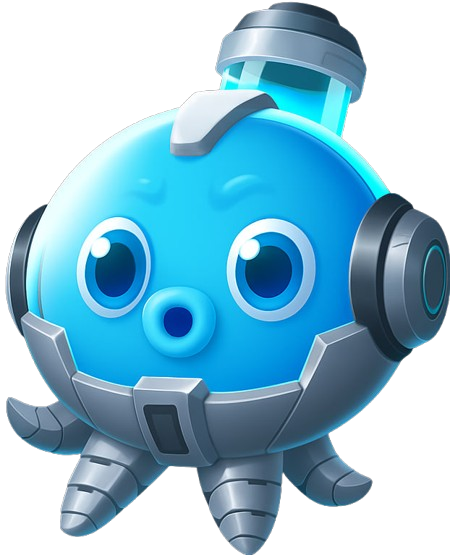
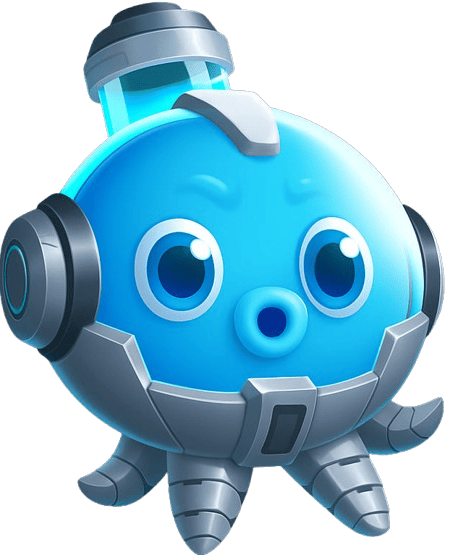
'ui'

diff --git a/src/components/Sprites/Pacman.tsx b/src/components/Sprites/Pacman.tsx
@@ -2,8 +2,9 @@
 import { useEffect, useState, useCallback, useRef } from 'react';
 import { Assets, Texture } from 'pixi.js';
 import { useTick } from '@pixi/react';
-import bg from '../../assets/pacmanRight.png';
-import { isWallAt, TILE_SIZE, MAP_COLS, MAP_ROWS, cellKey } from '../../game/mapData';
+import pacmanRight from '../../assets/pacmanRight.png';
+import pacmanLeft from '../../assets/pacmanLeft.png';
+import { isWallAt, TILE_SIZE, MAP_COLS, MAP_ROWS } from '../../game/mapData';
 import { useGameStore } from '../../game/gameStore';
 import {useDialogsStore} from "../../store/dialogs.ts";
 
@@ -15,15 +16,17 @@ const keyMap: Record<string, 'up' | 'down' | 'left' | 'right' | 'space' | undefi
     KeyD: 'right', ArrowRight: 'right',
 };
 
-const SPEED = 2;
+const SPEED = 2.8;
 const SPRITE_SIZE = TILE_SIZE;
-const HITBOX = 30;
+const HITBOX = 44;
 const HITBOX_PAD = (SPRITE_SIZE - HITBOX) / 2;
 
 export const Pacman = () => {
-    const [texture, setTexture] = useState(Texture.EMPTY);
+    const [textureRight, setTextureRight] = useState(Texture.EMPTY);
+    const [textureLeft, setTextureLeft] = useState(Texture.EMPTY);
     const [isMoving, setIsMoving] = useState<null | 'up' | 'down' | 'left' | 'right'>(null);
-    const [position, setPosition] = useState({ x: TILE_SIZE * 20, y: TILE_SIZE * 8 });
+    const [facing, setFacing] = useState<'left' | 'right'>('right');
+    const [position, setPosition] = useState({ x: TILE_SIZE * 12, y: TILE_SIZE * 8 });
     const { setDialogLoseGame } = useDialogsStore();
 
     const consume = useGameStore((s) => s.consume);
@@ -38,6 +41,8 @@ export const Pacman = () => {
         const dir = keyMap[e.code];
         if (!dir || dir === 'space' || gameOver) return;
         setIsMoving(dir);
+        if (dir === 'left') setFacing('left');
+        else if (dir === 'right') setFacing('right');
     }, [gameOver]);
 
     const keyUpHandler = useCallback((e: KeyboardEvent) => {
@@ -106,6 +111,7 @@ export const Pacman = () => {
     useTick(animate);
 
     const lastCellRef = useRef<string>('');
+
     useEffect(() => {
         if (gameOver) return;
 
@@ -134,8 +140,14 @@ export const Pacman = () => {
     }, [shouldEndGame, endGame]);
 
     useEffect(() => {
-        if (texture === Texture.EMPTY) Assets.load(bg).then(setTexture);
-    }, [texture]);
+        let alive = true;
+        Promise.all([Assets.load(pacmanRight), Assets.load(pacmanLeft)]).then(([r, l]) => {
+            if (!alive) return;
+            setTextureRight(r);
+            setTextureLeft(l);
+        });
+        return () => { alive = false; };
+    }, []);
 
     useEffect(() => {
         window.addEventListener('keydown', keyDownHandler);
@@ -146,5 +158,8 @@ export const Pacman = () => {
         };
     }, [keyDownHandler, keyUpHandler]);
 
-    return <pixiSprite texture={texture} x={position.x} y={position.y} width={SPRITE_SIZE} height={SPRITE_SIZE} />;
+    const currentTexture = facing === 'left' ? textureLeft : textureRight;
+    if (currentTexture === Texture.EMPTY) return null;
+
+    return <pixiSprite texture={currentTexture} x={position.x} y={position.y} width={SPRITE_SIZE} height={SPRITE_SIZE} />;
 };

diff --git a/src/game/mapData.ts b/src/game/mapData.ts
@@ -1,23 +1,22 @@
-export const MAP_COLS = 39;
-export const MAP_ROWS = 15;
-export const TILE_SIZE = 46;
+export const MAP_COLS = 27;
+export const MAP_ROWS = 14;
+export const TILE_SIZE = 60;
 
 export const RAW_LAYOUT: string[] = [
-    '#######################################',
-    '#.........o....................o......#',
-    '#..######.#.#####....####....######...#',
-    '#..##.......##....##.#....##.##.##.##.#',
-    '#..##.#####.##.# .##.#.#####. #.##.##.#',
-    '#..##. ### .##.##.# .#.##.##.##. #.##.#',
-    '#..##....##.##.##.##.#.##.##.##....##.#',
-    '#..######...######...#### ...######...#',
-    '#..o................ .............o...#',
-    '#..######...######...#####...######...#',
-    '#..##.......##....##.#....##.##....##.#',
-    '#..##..####.##. #.# .#.##.##.##. #.##.#',
-    '#..##..####.##.##.##.#.##.##.##.##.##.#',
-    '#.o.............#..................o..#',
-    '#######################################',
+    '###########################',
+    '#..o.................o....#',
+    '#..#.####....###...####...#',
+    '#....#....##.#...#.#.##.#.#',
+    '#.##.#.# .##.#.###...##.#.#',
+    '#.# .#.##.# .#.#.#.#. #.#.#',
+    '#.##...##.##.#.#.#.#....#.#',
+    '#....#####...### ..#####..#',
+    '#........... ..........o..#',
+    '#.#######....###...#####..#',
+    '#....#....##.#...#.#....#.#',
+    '#.##.#.##.##.#.#.#.#.##.#.#',
+    '#o.....#................o.#',
+    '###########################',
 ];
 
 export const isWallAt = (col: number, row: number) =>

diff --git a/src/game/gameStore.ts b/src/game/gameStore.ts
@@ -5,7 +5,7 @@ type Eaten = 'pellet' | null;
 type Dir = 'up' | 'down' | 'left' | 'right';
 export type Shark = { id: number; x: number; y: number; dir: Dir };
 
-const SHARK_SPEED = 1.5; // пикс/тик
+const SHARK_SPEED = 2.8; // пикс/тик
 
 function opposite(d: Dir): Dir {
     if (d === 'up') return 'down';
@@ -119,8 +119,8 @@ export const useGameStore = create<GameState>((set, get) => ({
                 const pickFrom = filtered.length ? filtered : options;
 
                 if (pickFrom.length) {
-                    // если текущий курс валиден — с 70% вероятностью держимся его, иначе выбираем случайный
-                    const keepCurrent = pickFrom.some((o) => o.dir === dir) && Math.random() < 0.7;
+                    // если текущий курс валиден — с 60% вероятностью держимся его, иначе выбираем случайный
+                    const keepCurrent = pickFrom.some((o) => o.dir === dir) && Math.random() < 0.6;
                     if (!keepCurrent) {
                         const choice = pickFrom[Math.floor(Math.random() * pickFrom.length)];
                         dir = choice.dir;

diff --git a/src/components/Sprites/Map.tsx b/src/components/Sprites/Map.tsx
@@ -78,6 +78,7 @@ export const Map = ({
     const pelletSize = TILE_SIZE * 0.6;           // 60% клетки
     const pelletOffset = (TILE_SIZE - pelletSize) / 2;
 
+
     return (
         <>
             {/* стены */}
@@ -104,7 +105,7 @@ export const Map = ({
                         x={px}
                         y={py}
                         size={pelletSize}
-                        speed={0.25}
+                        speed={0.35}
                         tint={pelletColor}
                     />
                 );

diff --git a/src/App.tsx b/src/App.tsx
@@ -6,7 +6,7 @@ import { DialogLoseGame } from "./components/Dialogs/DialogLoseGame.tsx";
 export const App = () => {
     const score = useGameStore((s) => s.score);
     return (
-        <VStack h={'100vh'} justifyContent={'center'}>
+        <VStack h={'100vh'} bg={'linear-gradient(135deg, rgb(245, 242, 237) 0%, rgb(232, 234, 246) 30%, rgb(227, 242, 253) 60%, rgb(187, 222, 251) 100%)'} justifyContent={'center'}>
             <Text fontSize={'30px'}>Score: {score}</Text>
             <PacmanGame />
             <DialogLoseGame />

diff --git a/src/components/PacmanGame.tsx b/src/components/PacmanGame.tsx
@@ -14,7 +14,7 @@ extend({ Container, Graphics, Sprite, TilingSprite, DisplacementFilter, Animated
 export const PacmanGame = () => {
     return (
         <Application width={MAP_COLS * TILE_SIZE} height={MAP_ROWS * TILE_SIZE} antialias>
-            <DisplacedContainer scale={24}>
+            <DisplacedContainer scale={30}>
                 <Background />
                 <Map />
                 <Pacman />
